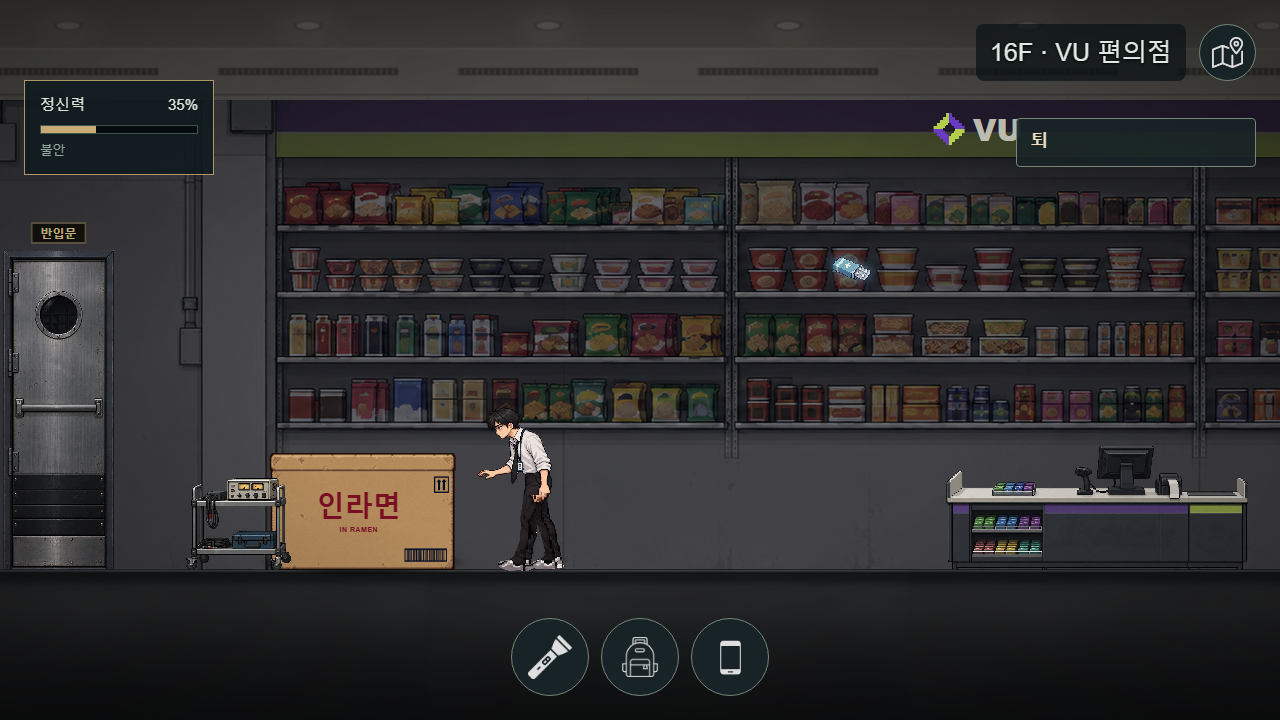
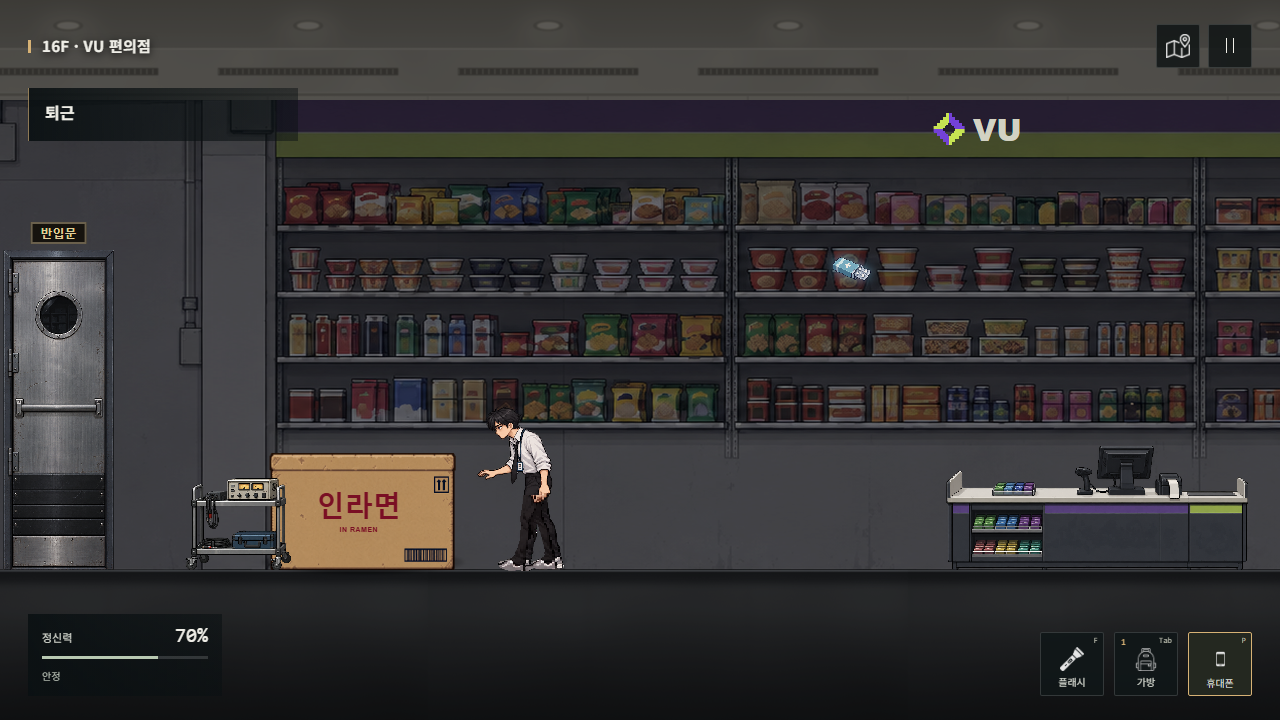
엔딩 크레딧 완성

diff --git a/css/b2-ending.css b/css/b2-ending.css
@@ -22,26 +22,37 @@
 #b2-delete-bar[data-offline="true"] #b2-delete-fill { background: #8fbda3; }
 #inspection .b2-action:disabled { border-color: #5d6461; background: #2a2e2d; color: #8d9692; cursor: not-allowed; }
 /* 엔딩 그림(assets/ending, b2-ending.js의 loadB2EndingArt). */
-/* TRUE END: 하얗게 밝아짐(white) → 그림(art) → 제목(title) → 크레딧(credits) → 메뉴 버튼(done). 그림이 없으면 제목은 상자로. */
-#b2-escape { position: fixed; z-index: 14; inset: 0; display: grid; place-items: center; overflow: hidden; background: #fff; color: #eee5d6; outline: none;
-  animation: b2-white-in 1.2s ease-out both; transition: background 1.5s; }
+/* TRUE END: 검게 어두워짐(black) → 그림(art) → 검은 바탕 흰 글씨 제목(title) → 크레딧(credits) → 메뉴 버튼(done). */
+#b2-escape { position: fixed; z-index: 14; inset: 0; display: grid; place-items: center; overflow: hidden; background: #000; color: #fff; outline: none;
+  animation: b2-black-in 1.2s ease-out both; }
 #b2-escape[hidden] { display: none; }
-@keyframes b2-white-in { from { background: #fff0; } to { background: #fff; } }
+@keyframes b2-black-in { from { background: #0000; } to { background: #000; } }
 #b2-true-end-art { position: absolute; inset: 0; width: 100%; height: 100%; object-fit: cover; opacity: 0; transition: opacity 1.5s; }
 #b2-true-end-art[hidden] { display: none; }
-#b2-escape:not([data-step="white"]) #b2-true-end-art { opacity: 1; }
-#b2-escape-title { position: relative; margin: 0; padding: 20px 28px; opacity: 0; transition: opacity 1s; font: 700 clamp(24px, 4vw, 44px)/1.2 Georgia, serif;
-  letter-spacing: .06em; text-align: center; background: #111b20f8; border: 2px solid #ad7666; }
-#b2-escape[data-art] #b2-escape-title { background: none; border: 0; color: #fff; text-shadow: 0 2px 14px #000d; }
+#b2-escape[data-step="art"] #b2-true-end-art { opacity: 1; }
+#b2-escape-title { position: relative; margin: 0; padding: 20px 28px; opacity: 0; transition: opacity 1s; color: #fff; font: 700 clamp(24px, 4vw, 44px)/1.2 Georgia, serif;
+  letter-spacing: .06em; text-align: center; }
 #b2-escape[data-step="title"] #b2-escape-title { opacity: 1; }
-#b2-escape:is([data-step="credits"], [data-step="done"]) { animation: none; background: #050708; }
-#b2-escape:is([data-step="credits"], [data-step="done"]) #b2-true-end-art { opacity: .2; }
 #b2-credits { position: absolute; inset: 0; overflow: hidden; pointer-events: none; }
-.b2-credits-roll { position: absolute; left: 0; right: 0; top: 100%; color: #f1f1e5; font: 24px/1.4 Arial, sans-serif; text-align: center; }
-.b2-credits-roll p { margin: 0 0 30px; }
-.b2-credits-roll span { display: block; color: #9fb0a8; font-size: 13px; letter-spacing: .2em; }
-#b2-escape:is([data-step="credits"], [data-step="done"]) .b2-credits-roll { animation: b2-credits 9s linear forwards; }
+.b2-credits-roll { position: absolute; left: 0; right: 0; top: 100%; color: #fff; font: 24px/1.4 Arial, sans-serif; text-align: center; }
+.b2-credits-roll p { margin: 0 0 30px; font-size: inherit; }
+.b2-credits-roll span { display: block; color: #bbb; font-size: 13px; letter-spacing: .2em; }
+.b2-credits-roll .b2-credits-team { margin-bottom: 56px; font: 700 clamp(32px, 5vw, 52px)/1.2 Georgia, serif; letter-spacing: .12em; }
+/* 크레딧 시간(16초)은 b2-ending.js의 b2FinaleSteps('credits'→'done')와 맞춘다. 건너뛰면(data-skipped) 크레딧을 치우고 메뉴 버튼만 둔다. */
+#b2-escape:is([data-step="credits"], [data-step="done"]) .b2-credits-roll, #b2-bad-ending .b2-credits-roll { animation: b2-credits 16s linear forwards; }
+#b2-escape[data-skipped] .b2-credits-roll { visibility: hidden; }
 @keyframes b2-credits { to { transform: translateY(calc(-50vh - 50%)); } }
+.b2-credits-skip { position: absolute; right: 24px; bottom: 16px; margin: 0; color: #9fb0a8; font: 13px Arial, sans-serif; visibility: hidden; }
+#b2-escape[data-step="credits"] { cursor: pointer; }
+#b2-escape[data-step="credits"] .b2-credits-skip { visibility: visible; }
+/* 움직임 줄이기: 밝아짐·페이드 없이 단계만 바꾸고, 크레딧은 올리지 않고 가운데에 두 줄로 한 번에 보인다. */
+@media (prefers-reduced-motion: reduce) {
+  #b2-escape, #b2-true-end-art, #b2-escape-title { animation: none; transition: none; }
+  #b2-escape:is([data-step="credits"], [data-step="done"]) .b2-credits-roll, #b2-bad-ending .b2-credits-roll { animation: none; top: 50%; transform: translateY(-50%); columns: 2; column-gap: 48px;
+    width: min(760px, calc(100vw - 32px)); margin: 0 auto; font-size: 18px; }
+  .b2-credits-roll p { break-inside: avoid; margin-bottom: 18px; }
+  .b2-credits-roll .b2-credits-team { column-span: all; margin-bottom: 28px; font-size: 32px; }
+}
 #b2-escape .b2-ending-actions { position: absolute; left: 0; right: 0; bottom: 8%; visibility: hidden; }
 #b2-escape[data-step="done"] .b2-ending-actions { visibility: visible; }
 /* 서버실 출입문을 막는 장비 운반 상자(floor-b2.js movables, 밀 수 있는 정적 충돌체). 로봇이 두드리면 문과 상자가 흔들린다:

diff --git a/js/scene/b2-ending.js b/js/scene/b2-ending.js
@@ -533,9 +533,12 @@ function loadB2EndingArt() {
   }
 }
 
-// TRUE END: 화면이 하얗게 밝아지고 → 그림(없으면 흰 화면) → "TRUE END — ARCHI OFFLINE"(그림이 없으면 상자) → 크레딧이 위로
+// TRUE END: 화면이 검게 어두워지고 → 그림(없으면 검은 화면) → 검은 바탕에 흰 글씨 "TRUE END — ARCHI OFFLINE" → 크레딧이 위로
 // 올라가고 → [메인 메뉴로]. 단계는 data-step으로 그린다(b2-ending.css).
-const b2FinaleSteps = [['art', 1200], ['title', 2700], ['credits', 6000], ['done', 15000]];
+// 크레딧이 올라가는 시간(16초)은 b2-ending.css의 b2-credits 애니메이션과 맞춘다.
+const b2FinaleSteps = [['art', 1200], ['title', 4200], ['credits', 7500], ['done', 23500]];
+// 크레딧(#b2-credits)은 하나를 두 엔딩이 같이 쓴다: 보이는 엔딩 창으로 옮겨 붙인다(배드 엔딩은 b2-capture-scene.js).
+const b2Credits = document.getElementById('b2-credits');
 
 function showB2Escape() {
   endB2Ending();
@@ -544,8 +547,10 @@ function showB2Escape() {
   for (const element of b2EscapeBlocked) element.inert = true;
   b2TrueEndArt.hidden = !b2Art.trueEnd;
   if (b2Art.trueEnd) { b2TrueEndArt.src = b2Art.trueEnd; b2Escape.dataset.art = 'true'; }
-  b2Escape.dataset.step = 'white';
+  b2TrueEndArt.after(b2Credits);
+  b2Escape.dataset.step = 'black';
   b2Escape.hidden = false;
+  playGameSound('ending-true');
   // 클리어 기록: 메인 메뉴에 표시하고, '계속하기'가 DELETE 직전으로 돌아가지 않게 이어하기 저장을 지운다(저장 칸·체크포인트는 그대로).
   try { localStorage.setItem(clearedKey, String(Date.now())); localStorage.removeItem(progressKey); } catch { /* 저장소가 없어도 엔딩은 보인다. */ }
   b2Escape.focus();
@@ -554,6 +559,23 @@ function showB2Escape() {
     if (step === 'done') document.getElementById('b2-escape-menu').focus();
   }, at)));
 }
+
+// 크레딧이 올라가는 동안 Esc나 클릭으로 건너뛰면 바로 [메인 메뉴로]가 뜬다. 크레딧 전(흰 화면·제목)에는 건너뛰지 않는다.
+function skipB2Credits() {
+  if (b2Escape.dataset.step !== 'credits') return;
+  b2FinaleTimers.forEach(clearTimeout);
+  b2FinaleTimers = [];
+  b2Escape.dataset.skipped = 'true';
+  b2Escape.dataset.step = 'done';
+  document.getElementById('b2-escape-menu').focus();
+}
+b2Escape.addEventListener('click', skipB2Credits);
+b2Escape.addEventListener('keydown', event => {
+  if (event.code !== 'Escape' || b2Escape.dataset.step !== 'credits') return;
+  event.preventDefault();
+  event.stopPropagation();
+  skipB2Credits();
+});
 
 // 불러오기·새 게임(save.js restoreProgress)이 장면을 다시 짓기 전에 엔딩 상태를 모두 지운다.
 function resetB2Ending() {
@@ -573,6 +595,7 @@ function resetB2Ending() {
   b2DeleteBar.hidden = b2BarricadeLine.hidden = b2BadEnding.hidden = b2Escape.hidden = true;
   b2FinaleTimers.forEach(clearTimeout);
   b2FinaleTimers = [];
+  delete b2Escape.dataset.skipped;
   for (const element of b2EscapeBlocked) element.inert = false;
   b2EscapeBlocked = [];
   refreshB2TransferScreen();

diff --git a/index.html b/index.html
@@ -466,7 +466,7 @@
     </section>
     <section id="b2-bad-ending" class="b2-ending-dialog" role="dialog" aria-modal="true" aria-labelledby="b2-bad-ending-title" hidden>
       <h2 id="b2-bad-ending-title">BAD END — 연결</h2>
-      <p>경비 로봇에게 붙잡혀 연결 실험실로 끌려갔다. ARCHI 삭제는 끝나지 않았다.</p>
+      <p>ARCHI 삭제에 실패했다. 경비 로봇에게 붙잡혀 연결 실험실로 끌려간 수호의 의식은 ARCHI에 연결되었다.</p>
       <div class="b2-ending-actions"><button id="b2-checkpoint" type="button">체크포인트로 이동</button><button class="game-over-load" type="button">불러오기</button><button id="b2-bad-menu" type="button">메인 메뉴</button><button id="b2-restart" type="button">처음부터 다시하기</button></div>
     </section>
     <section id="b2-capture-scene" role="dialog" aria-modal="true" aria-label="경비로봇에게 제압된 수호의 이송과 실험실 연결" tabindex="-1" hidden>
@@ -477,12 +477,16 @@
       </div>
       <button id="b2-capture-skip" type="button" aria-label="연출 건너뛰기">×</button>
     </section>
-    <section id="b2-escape" role="dialog" aria-modal="true" aria-labelledby="b2-escape-title" tabindex="-1" data-step="white" hidden>
+    <section id="b2-escape" role="dialog" aria-modal="true" aria-labelledby="b2-escape-title" tabindex="-1" data-step="black" hidden>
       <img id="b2-true-end-art" alt="" hidden />
       <h2 id="b2-escape-title">TRUE END — ARCHI OFFLINE</h2>
       <div id="b2-credits"><div class="b2-credits-roll">
-        <p><span>기획</span>정수호</p><p><span>개발</span>현준</p><p><span>디자인</span>윤찬</p><p><span>사운드</span>정래</p><p><span>PM</span>정민준</p>
+        <p class="b2-credits-team"><span>TEAM</span>일석사조</p>
+        <p><span>멘토</span>조현아, 남희수, 이태현, 이우진</p><p><span>멘티</span>정수호, 황현준, 김정래, 구윤찬, 정민준</p>
+        <p><span>PM</span>정민준</p><p><span>기획</span>정수호, 황현준, 김정래, 구윤찬, 정민준</p><p><span>개발</span>정수호, 황현준, 김정래, 구윤찬, 정민준</p>
+        <p><span>사운드</span>황현준</p><p><span>디자인</span>황현준</p><p><span>QA</span>멘토, 동생, 친구들</p>
       </div></div>
+      <p class="b2-credits-skip">Esc · 클릭 — 크레딧 건너뛰기</p>
       <div class="b2-ending-actions"><button id="b2-escape-menu" type="button">메인 메뉴로</button></div>
     </section>
     <aside id="sanity-hud" aria-label="정신력 상태">

diff --git a/js/audio/audio.js b/js/audio/audio.js
@@ -103,7 +103,7 @@ function gameAudioBuffer(name, variant = 0) {
     'door-metal': .65, 'door-wood': .72, 'door-glass': .52, 'door-slide': .9,
     paper: .42, 'bag-zip': .48, drawer: .62, lever: .3, plug: .26, 'card-scan': .34, dial: .18,
     keyboard: .09, 'mouse-click': .075, 'power-relay': .65, 'water-drop': .5, 'pipe-tick': .55,
-    'hallucination-footsteps': 1.6, 'hallucination-knock': 1.5, 'hallucination-whisper': 2.8 };
+    'hallucination-footsteps': 1.6, 'hallucination-knock': 1.5, 'hallucination-whisper': 2.8, 'ending-true': 7, 'ending-bad': 7 };
   const loop = ['office', 'dark', 'wind', 'motor', 'cctv-bgm', 'cctv-dread',
     'server-room', 'electrical-room', 'plumbing', 'hall-room'].includes(name);
   const duration = loop ? 8 : durations[name];
@@ -217,6 +217,12 @@ function gameAudioBuffer(name, variant = 0) {
         .06 * (sin(880, t) + sin(932.33, t)) * (.6 + .4 * sin(.25, t)) +
         .045 * Math.sin(2 * Math.PI * 1318.5 * t + 4 * Math.sin(2 * Math.PI * .5 * t)) * (.5 + .5 * sin(.125, t)) +
         .14 * soft * hit(t % 2, .3, 3) * Math.min(1, (t % 2) / .3 * 3); break;
+      // B2 엔딩 화면(b2-ending.js · b2-capture-scene.js). TRUE END: 천천히 부풀었다 사라지는 밝은 장화음.
+      case 'ending-true': sample = Math.min(1, t / 1.5) * Math.exp(-Math.max(0, t - 2.5) * .7) *
+        (.07 * (sin(261.63, t) + sin(329.63, t) + sin(392, t)) + .05 * sin(130.81, t) + .035 * sin(523.25, t) * (.5 + .5 * sin(.5, t))); break;
+      // BAD END: 쿵 하는 저음 뒤에 반음 차이로 긁히는 낮은 울림과 떨리는 높은 음이 남는다.
+      case 'ending-bad': sample = .42 * sin(41, t) * hit(t, 0, 1.4) + .3 * low * hit(t, 0, 2.5) + Math.min(1, t / 1.2) * Math.exp(-Math.max(0, t - 3) * .8) *
+        (.07 * (sin(110, t) + sin(116.54, t)) + .03 * Math.sin(2 * Math.PI * 1244.5 * t + 3 * Math.sin(2 * Math.PI * .7 * t))); break;
       case 'office': sample = .6 * low + .09 * sin(62.5, t) + .025 * sin(125, t); break;
       case 'dark': sample = .46 * low + .065 * sin(37.5, t) * (1 + .18 * sin(.125, t)); break;
       case 'wind': sample = .95 * low * (.65 + .2 * sin(.25, t) + .12 * sin(.625, t)); break;

diff --git a/css/b2-capture-scene.css b/css/b2-capture-scene.css
@@ -32,7 +32,14 @@
 #world[data-b2-capture] .guard-bot { visibility: hidden; }
 body:has(#b2-capture-scene:not([hidden])) #world #darkness { display: none; }
 body:has(#b2-capture-scene:not([hidden])) :is(header, nav, #debug-sidebar, #inventory-button, #objective, #sanity-hud, #game-menu-button, #interaction-hint, #interaction-outline, #suho-line, #b2-delete-bar, #b2-barricade-line, #room-alarm) { visibility: hidden; }
-#b2-bad-ending { z-index: 19; border: 0; background: transparent; box-shadow: none; }
+/* 배드 엔딩: 화면 전체를 검게 덮고 흰 글씨로 제목·설명(위), 크레딧(가운데, b2-ending.css), 버튼(아래)을 둔다. */
+#b2-bad-ending { z-index: 19; inset: 0; transform: none; width: auto; display: flex; flex-direction: column; justify-content: space-between;
+  padding: 8vh 16px; border: 0; background: #000; box-shadow: none; color: #fff; }
+#b2-bad-ending[hidden] { display: none; }
+#b2-bad-ending :is(h2, p, .b2-ending-actions) { position: relative; z-index: 1; }
+#b2-bad-ending h2 { font: 700 clamp(24px, 4vw, 44px)/1.2 Georgia, serif; letter-spacing: .06em; }
+#b2-bad-ending > p { max-width: 560px; margin: 0 auto auto; font-size: 15px; }
+#b2-bad-ending #b2-credits { inset: 30vh 0 22vh; }
 @media (prefers-reduced-motion: reduce) {
   #b2-capture-scene #b2-capture-view { transform: none !important; }
   #b2-capture-eyelids { clip-path: none; opacity: calc(1 - var(--eye-open, 1)); }

diff --git a/js/scene/b2-capture-scene.js b/js/scene/b2-capture-scene.js
@@ -177,7 +177,10 @@ function finishB2CaptureScene() {
   b2CaptureScene.setAttribute('aria-hidden', 'true');
   b2CaptureEyelids.style.setProperty('--eye-open', '0');
   b2CaptureSkip.hidden = true;
+  // 배드 엔딩: 검은 화면에 흰 글씨로 결말과 크레딧을 띄우고, 버튼은 바로 누를 수 있다.
+  b2BadEnding.querySelector('p').after(b2Credits);
   b2BadEnding.inert = false; b2BadEnding.hidden = false;
+  playGameSound('ending-bad');
   document.getElementById('b2-checkpoint').focus({ preventScroll: true });
 }
 
